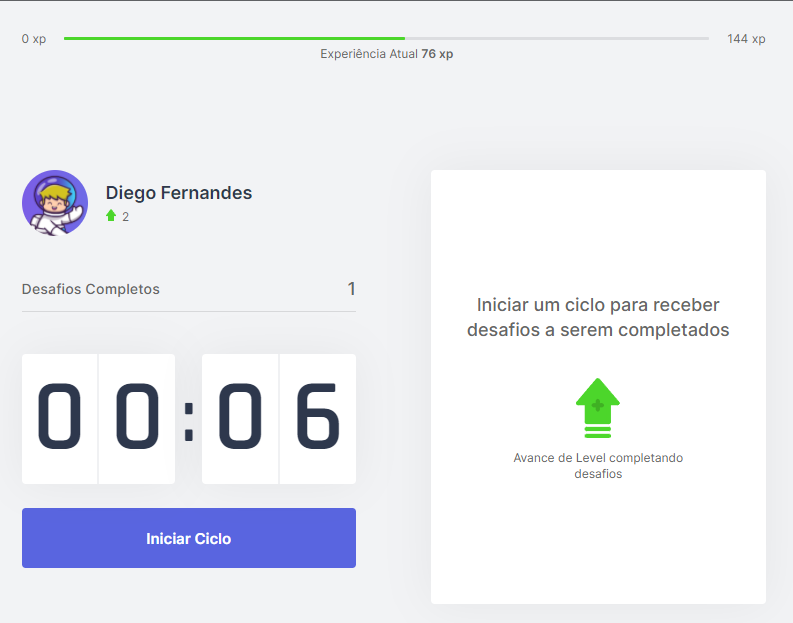
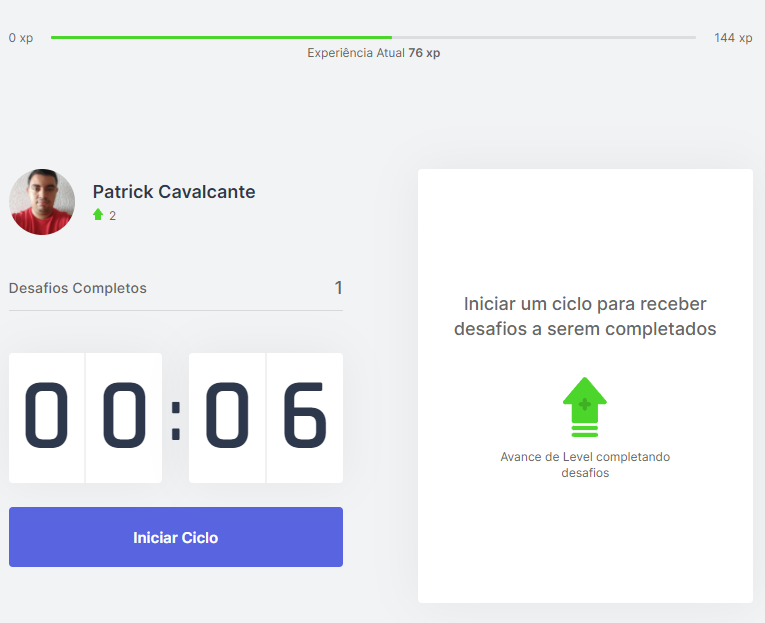
readme

diff --git a/src/components/Profile.tsx b/src/components/Profile.tsx
@@ -8,9 +8,9 @@ export function Profile() {
   
   return(
     <div className={styles.profileContainer}>
-      <img src="https://github.com/diego3g.png" alt="Diego Fernandes" />
+      <img src="https://github.com/patrickcavalcante.png" alt="Patrick Cavalcante" />
       <div>
-        <strong>Diego Fernandes</strong>
+        <strong>Patrick Cavalcante</strong>
         <p>
           <img src="icons/level.svg" alt="icon levelUp"/>
           {level}
